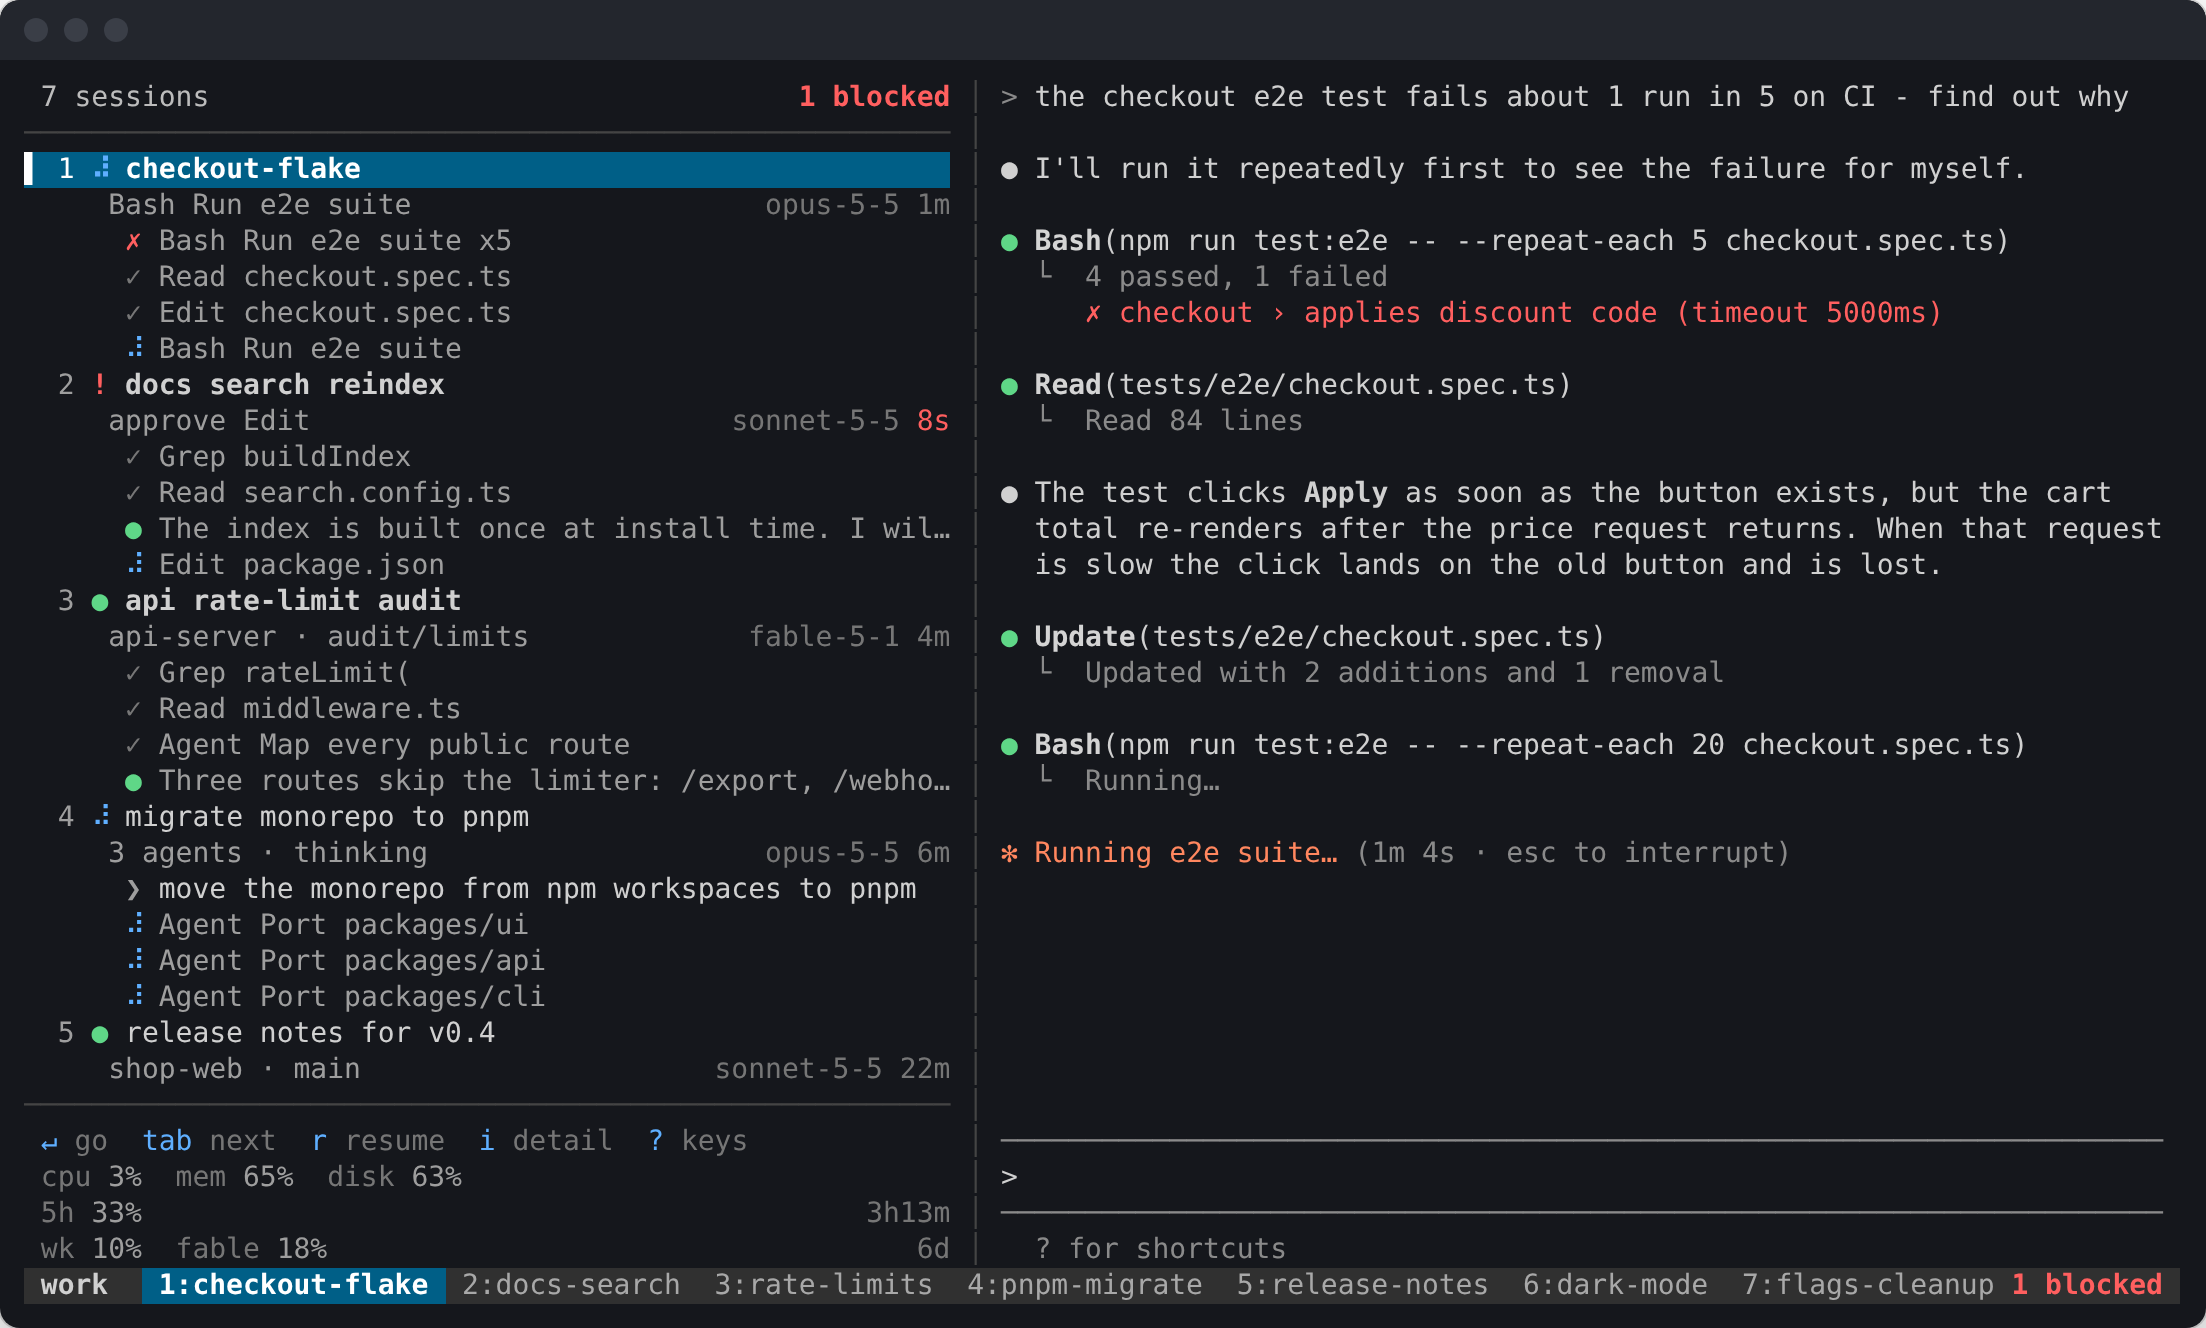
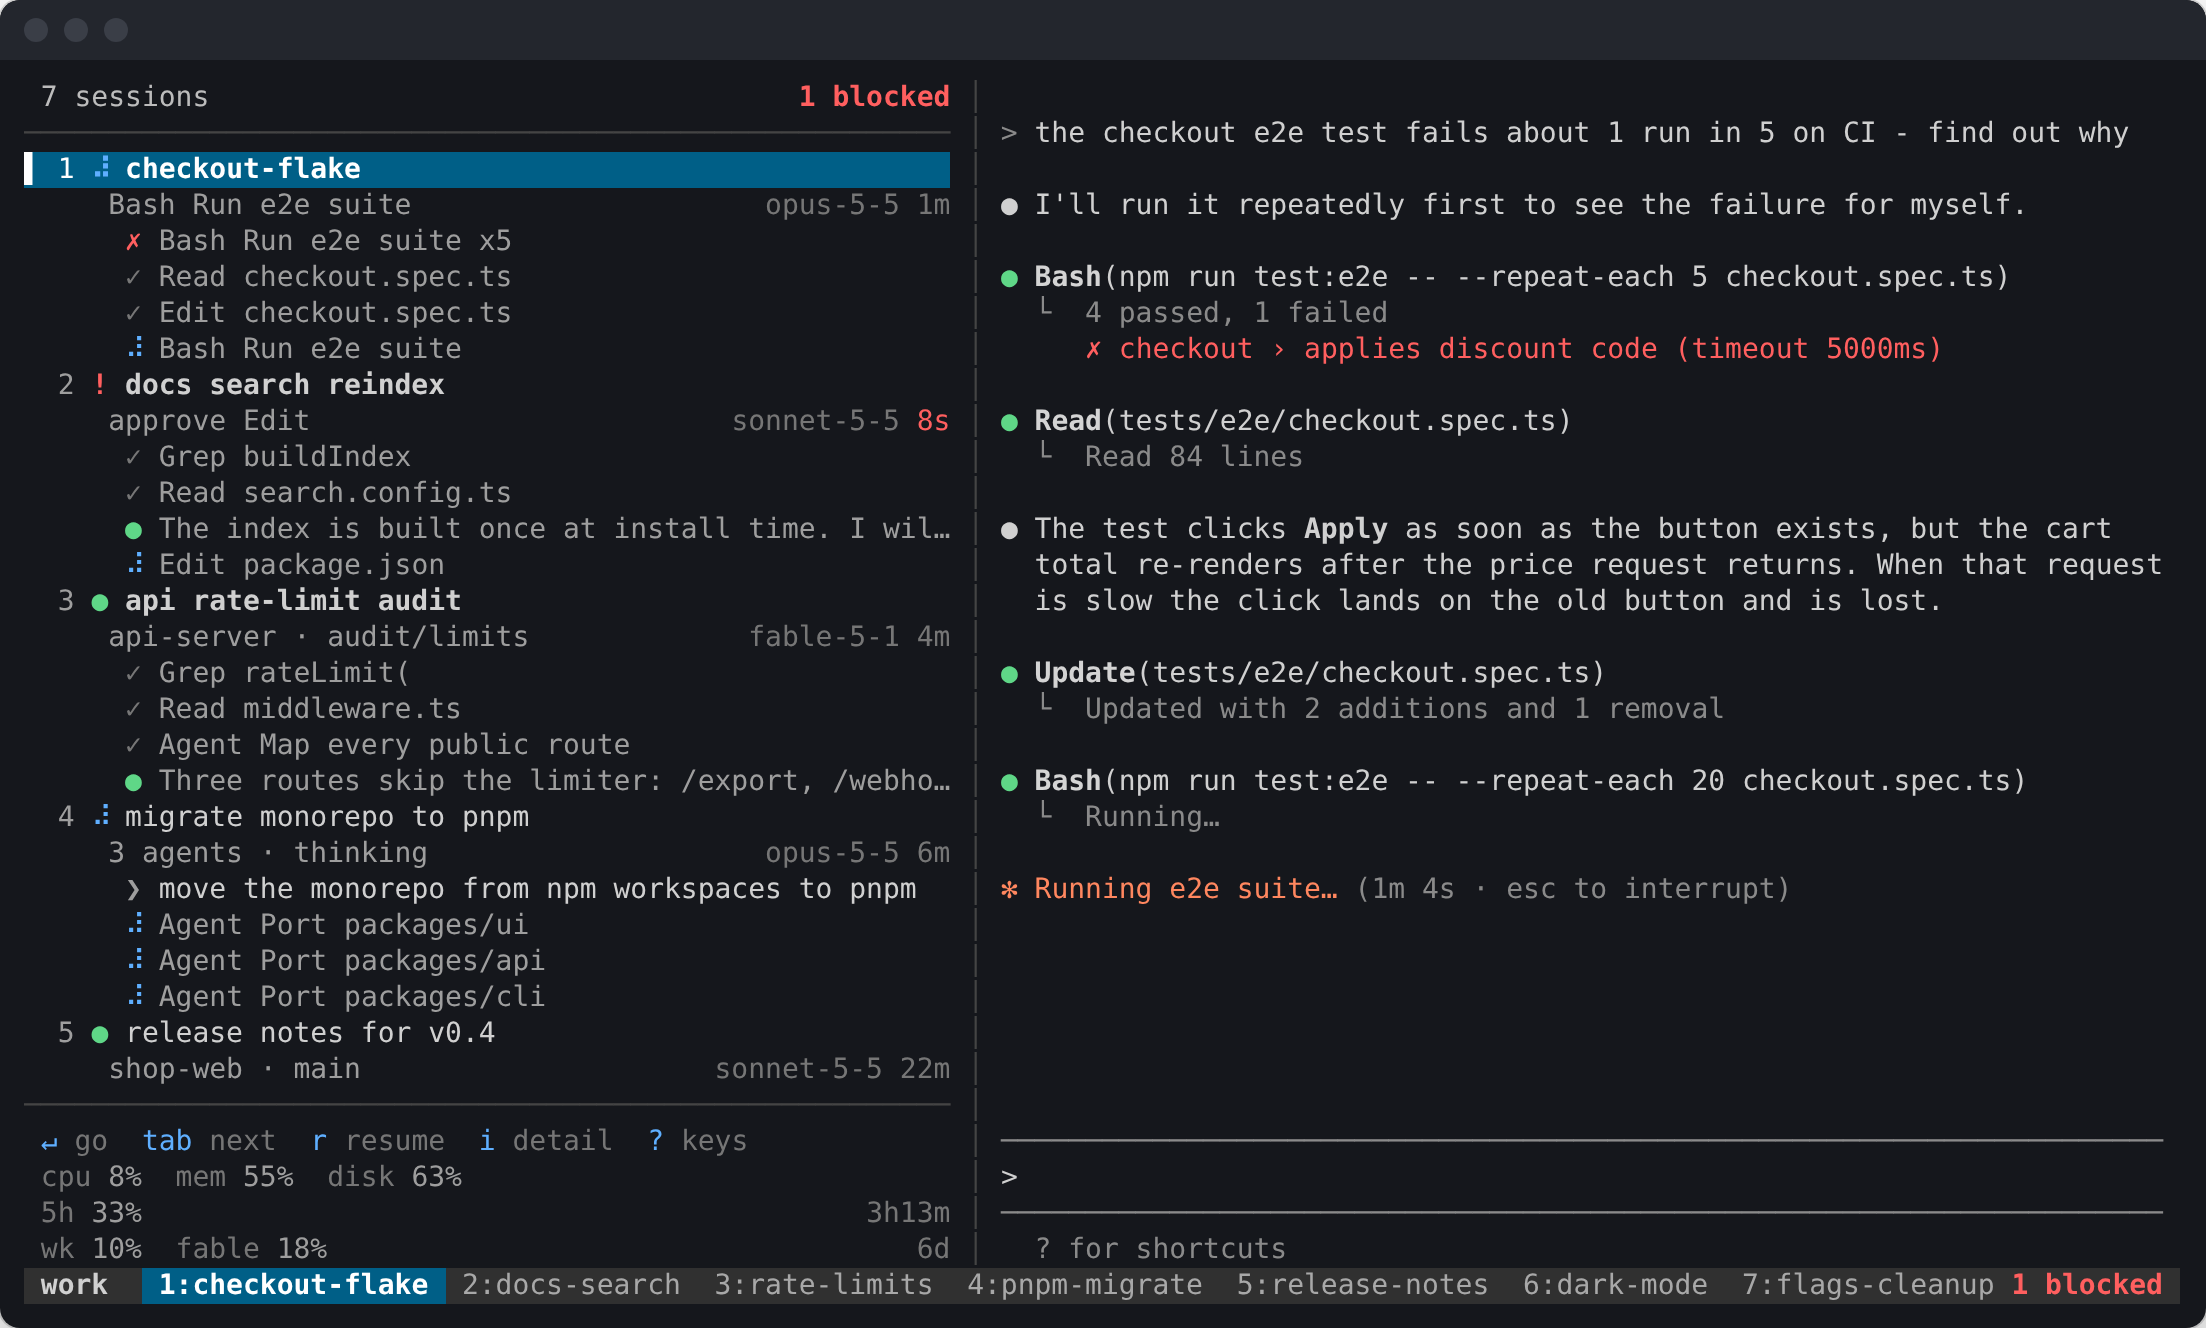
Show two accounts in a full-window screenshot
Replace the narrow light-theme crop with a full window: the focused session
runs on a second account, its pane shows the CLAUDE_CONFIG_DIR launch, and
both accounts are colour-coded. Explain in the README how to sign a second
account in, and that account detection reads /proc (Linux only).

Changed region(s): [[0.4316, 0.0617, 0.9864, 0.6792], [0.7398, 0.6175, 0.8015, 0.6792]]

diff --git a/README.md b/README.md
@@ -123,9 +123,15 @@ share a line, so the countdown they share is stated once. It goes quiet grey
 below 75%, blue above it, red above 90%.
 
 With two accounts signed in, each gets its own block, read from that account's
-own config:
+own config. Claude Code keeps the signed-in account in its config directory, so a
+second account is a second directory: start a session with
+`CLAUDE_CONFIG_DIR=~/.claude-ops claude`, log in there once, and every session
+started that way spends that account while the rest stay on your default one.
 
-<img src="docs/rail-accounts-light.png" width="303" alt="Two accounts' plan usage in the light palette, with each session tagged by account">
+![Two accounts: each session tagged dev or ops, with a usage block per account](docs/rail-accounts.png)
+
+Which account a session runs as is read from its environment in `/proc`, so
+this part is Linux-only; elsewhere every session counts as the default account.
 
 By default these come from Claude Code's own cache, and cc-rail only reads it.
 Claude Code refills that cache when a session opens `/usage`, not as it works,
